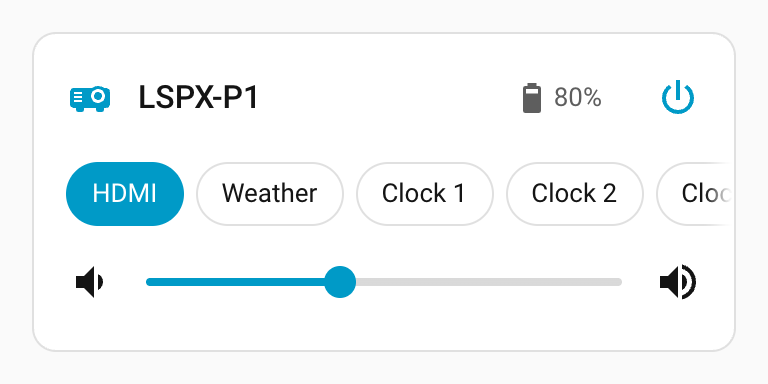
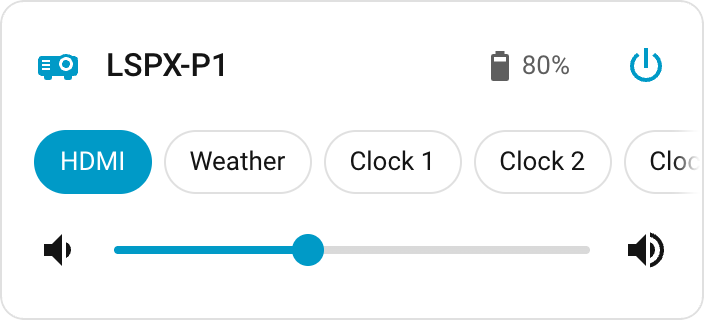
Card screenshots: cut along the card's border with transparent rounded corners
No dashboard background around the cards any more, so the README tables
line up at the top and the images sit cleanly on GitHub's light and dark
themes. The popover and device page images keep their surroundings.

diff --git a/tools/screenshots/capture.py b/tools/screenshots/capture.py
@@ -24,6 +24,7 @@ import tempfile
 from pathlib import Path
 
 import aiohttp
+from PIL import Image, ImageChops, ImageDraw
 
 HERE = Path(__file__).resolve().parent
 REPO = HERE.parent.parent
@@ -33,7 +34,8 @@ DEBUG_PORT = 9333
 
 # Crop rules (CSS pixels; the files are 2x):
 VIEWPORT = (1440, 1100)  # three dashboard columns of ~420 px
-CARD_MARGIN = 16  # dashboard background kept around each card
+# Cards are cut along their own rounded border, with the corners outside it transparent, so they sit
+# cleanly on any README background (light or dark) and line up at the top of a table.
 DIALOG_MARGIN = 24
 DEVICE_VIEWPORT = (1240, 1100)  # device page: two columns of cards; the shot is the page right of the sidebar
 SCALE = 2
@@ -123,13 +125,28 @@ class Page:
         await self.send("Page.navigate", url=url)
         await self.wait_for("!!document.querySelector('home-assistant')?.hass?.states")
 
-    async def shoot(self, rect: dict, margin: int, path: Path) -> None:
+    async def shoot(self, rect: dict, margin: int, path: Path, *, radius: float = 0) -> None:
         x = max(0, rect["x"] - margin)
         y = max(0, rect["y"] - margin)
         clip = {"x": x, "y": y, "width": rect["width"] + 2 * margin, "height": rect["height"] + 2 * margin, "scale": 1}
         shot = await self.send("Page.captureScreenshot", format="png", clip=clip, captureBeyondViewport=True)
         path.write_bytes(base64.b64decode(shot["data"]))  # noqa: ASYNC240
+        if radius:
+            round_corners(path, radius * SCALE)
         print(f"wrote {path.relative_to(REPO)} ({int(clip['width'] * SCALE)}x{int(clip['height'] * SCALE)})")
+
+
+def round_corners(path: Path, radius: float) -> None:
+    """Make everything outside a rounded rectangle of the image's size transparent (anti-aliased)."""
+    image = Image.open(path).convert("RGBA")
+    supersample = 4
+    mask = Image.new("L", (image.width * supersample, image.height * supersample), 0)
+    ImageDraw.Draw(mask).rounded_rectangle(
+        (0, 0, mask.width - 1, mask.height - 1), radius=radius * supersample, fill=255
+    )
+    mask = mask.resize(image.size, Image.Resampling.LANCZOS)
+    image.putalpha(ImageChops.multiply(image.getchannel("A"), mask))
+    image.save(path, optimize=True)
 
 
 async def select_source(page: Page, source: str) -> None:
@@ -196,8 +213,10 @@ async def capture(scheme: str, base: str) -> None:
                 await asyncio.sleep(4)  # icons, fonts, slider positions
                 for index, layout in enumerate(("compact", "standard", "full")):
                     await select_source(page, SOURCES[layout])
-                    rect = await page.evaluate(f"{RECT}(deepQueryAll('sony-lspx-p1-card')[{index}])")
-                    await page.shoot(rect, CARD_MARGIN, OUT / f"card-{layout}.png")
+                    card = f"deepQueryAll('sony-lspx-p1-card')[{index}].shadowRoot.querySelector('ha-card')"
+                    rect = await page.evaluate(f"{RECT}({card})")
+                    radius = await page.evaluate(f"parseFloat(getComputedStyle({card}).borderTopLeftRadius)")
+                    await page.shoot(rect, 0, OUT / f"card-{layout}.png", radius=radius)
 
                 # The popover opened from the standard card's header.
                 await select_source(page, SOURCES["popover"])

diff --git a/.agents/skills/screenshots/SKILL.md b/.agents/skills/screenshots/SKILL.md
@@ -11,7 +11,7 @@ Follow `tools/screenshots/README.md`. In short:
 2. `.venv/bin/python tools/screenshots/capture.py`: headless Chromium, fixed viewport, 2x, light theme, English. It writes `docs/images/card-{compact,standard,full,popover}.png` and `docs/images/device-page.png`.
 3. Look at every image before committing (icons loaded, nothing half-rendered), then stop the demo.
 
-Crop rules are constants at the top of `capture.py` (`VIEWPORT`, `CARD_MARGIN`, `DIALOG_MARGIN`, `DEVICE_VIEWPORT`). Change them there and update the "Crop rules" section of `tools/screenshots/README.md`; never hand-crop images. The demo state (80% on battery, Custom 1 picture mode and so on) is in `simulate_projector()` in `demo_ha.py`.
+Crop rules are constants at the top of `capture.py` (`VIEWPORT`, `DIALOG_MARGIN`, `DEVICE_VIEWPORT`). Card images are cut along the card's border with transparent rounded corners (`round_corners()`), no dashboard background; the popover and device page keep their surroundings. Change them there and update the "Crop rules" section of `tools/screenshots/README.md`; never hand-crop images. The demo state (80% on battery, Custom 1 picture mode and so on) is in `simulate_projector()` in `demo_ha.py`.
 
 The source differs per shot on purpose: `capture.py` selects HDMI before the `compact` shot, Clock 2 before `standard` and Window before `full` and the popover (`SOURCES`), so together the images show the source chips at the start, in the middle and at the end of their scroll. Keep that spread when changing the shots or the source list. Check that each selected chip is fully visible and that every faded edge cuts through a chip.
 

diff --git a/tools/screenshots/README.md b/tools/screenshots/README.md
@@ -42,7 +42,7 @@ The rules live as constants at the top of `capture.py`; change them there, not b
 
 - **English, light theme.** Light is the Home Assistant default (`--scheme dark` exists for experiments).
 - **2x pixel density.** Every file is twice its CSS size, so it stays sharp on high-density screens. The README sets display widths with `width=`.
-- **Cards:** each card is cut along its own edges, plus 16 CSS px of dashboard background (`CARD_MARGIN`). The viewport is 1440 × 1100 CSS px (`VIEWPORT`), which gives three dashboard columns of about 350 px card width, the usual width on a desktop.
+- **Cards:** each card is cut exactly along its border, and the corners outside its rounded border are transparent (the radius is read from the card). No dashboard background is kept, so the images line up at the top of the README tables and look right on GitHub's light and dark themes. The viewport is 1440 × 1100 CSS px (`VIEWPORT`), which gives three dashboard columns of about 350 px card width, the usual width on a desktop.
 - **Popover:** the open dialog from the standard card, plus 24 px of the dimmed page around it (`DIALOG_MARGIN`). If it is taller than the viewport, it is cut at the viewport height.
 - **Device page:** the whole page right of the sidebar, including its top bar, at a 1240 px wide viewport (`DEVICE_VIEWPORT`). That gives two columns of cards with no empty space on the right.
 
